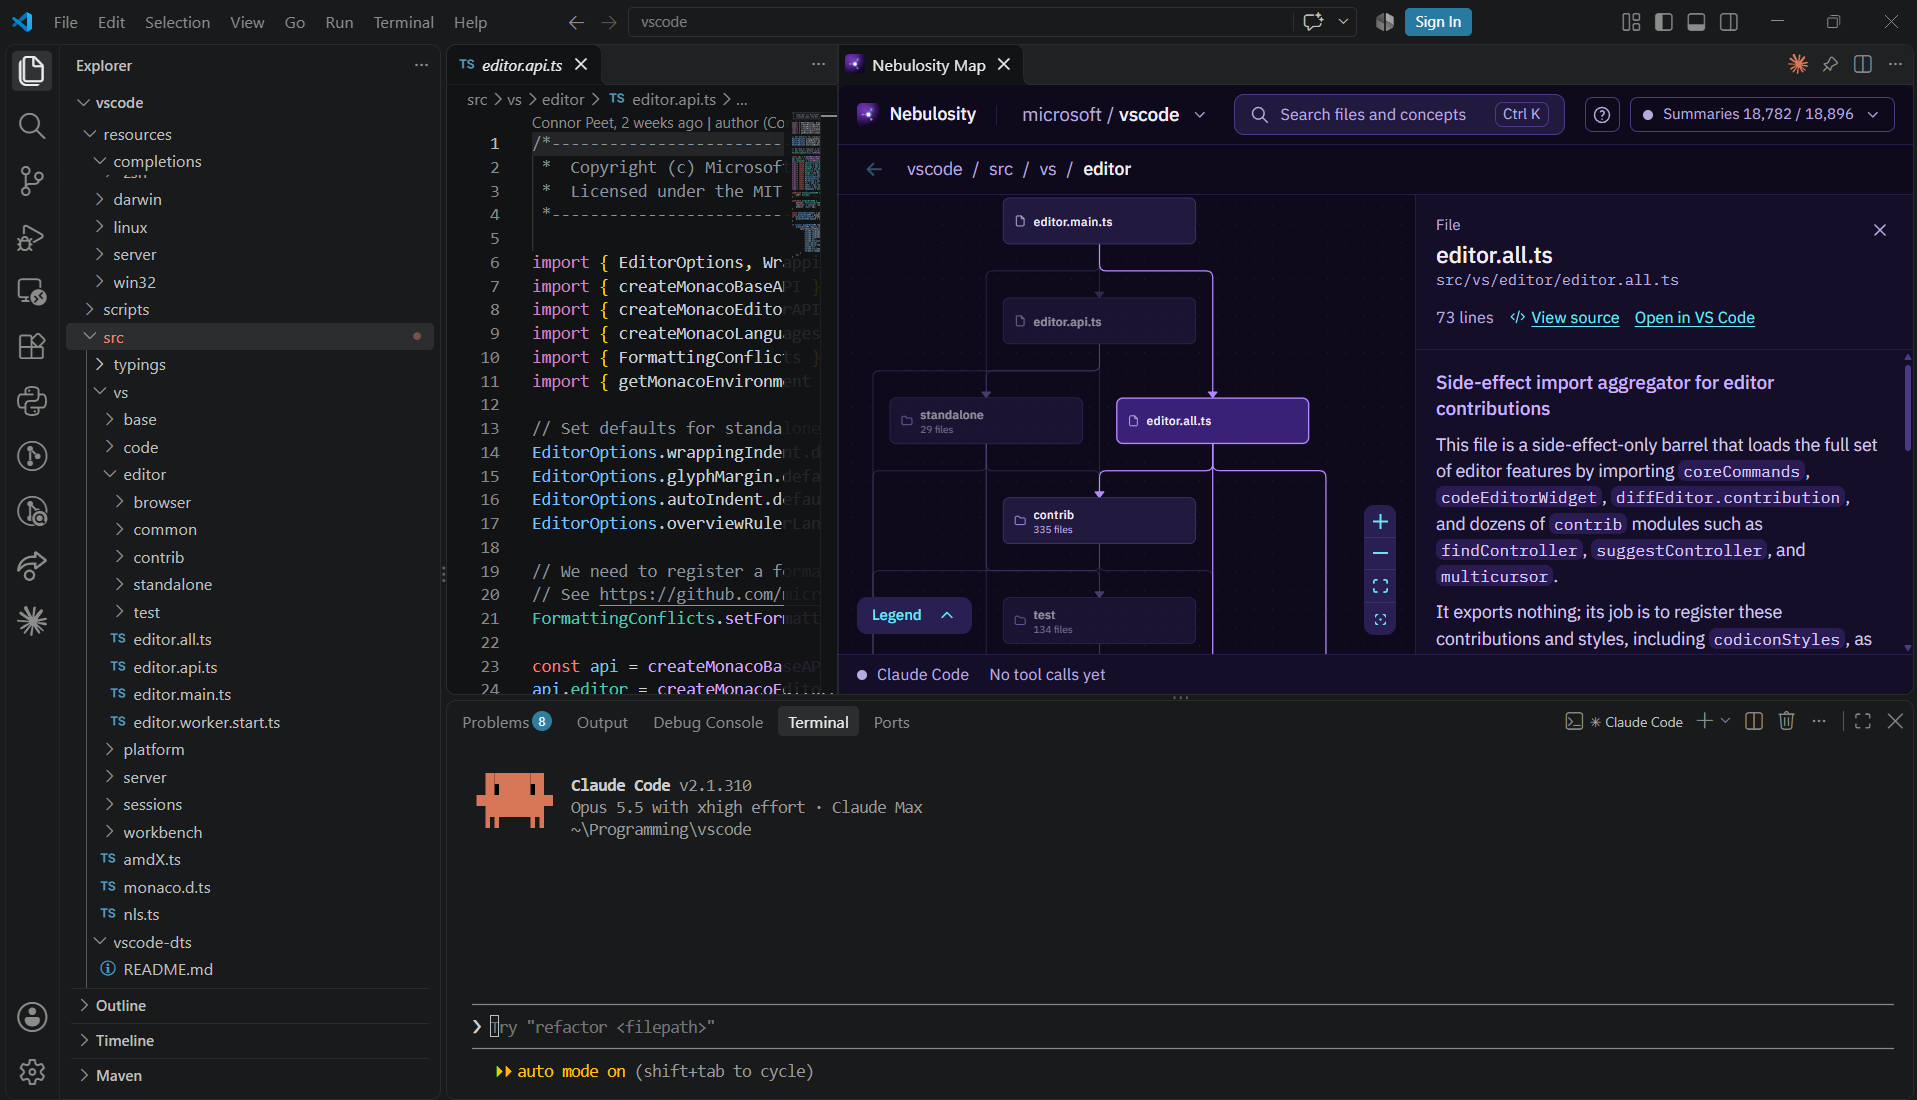
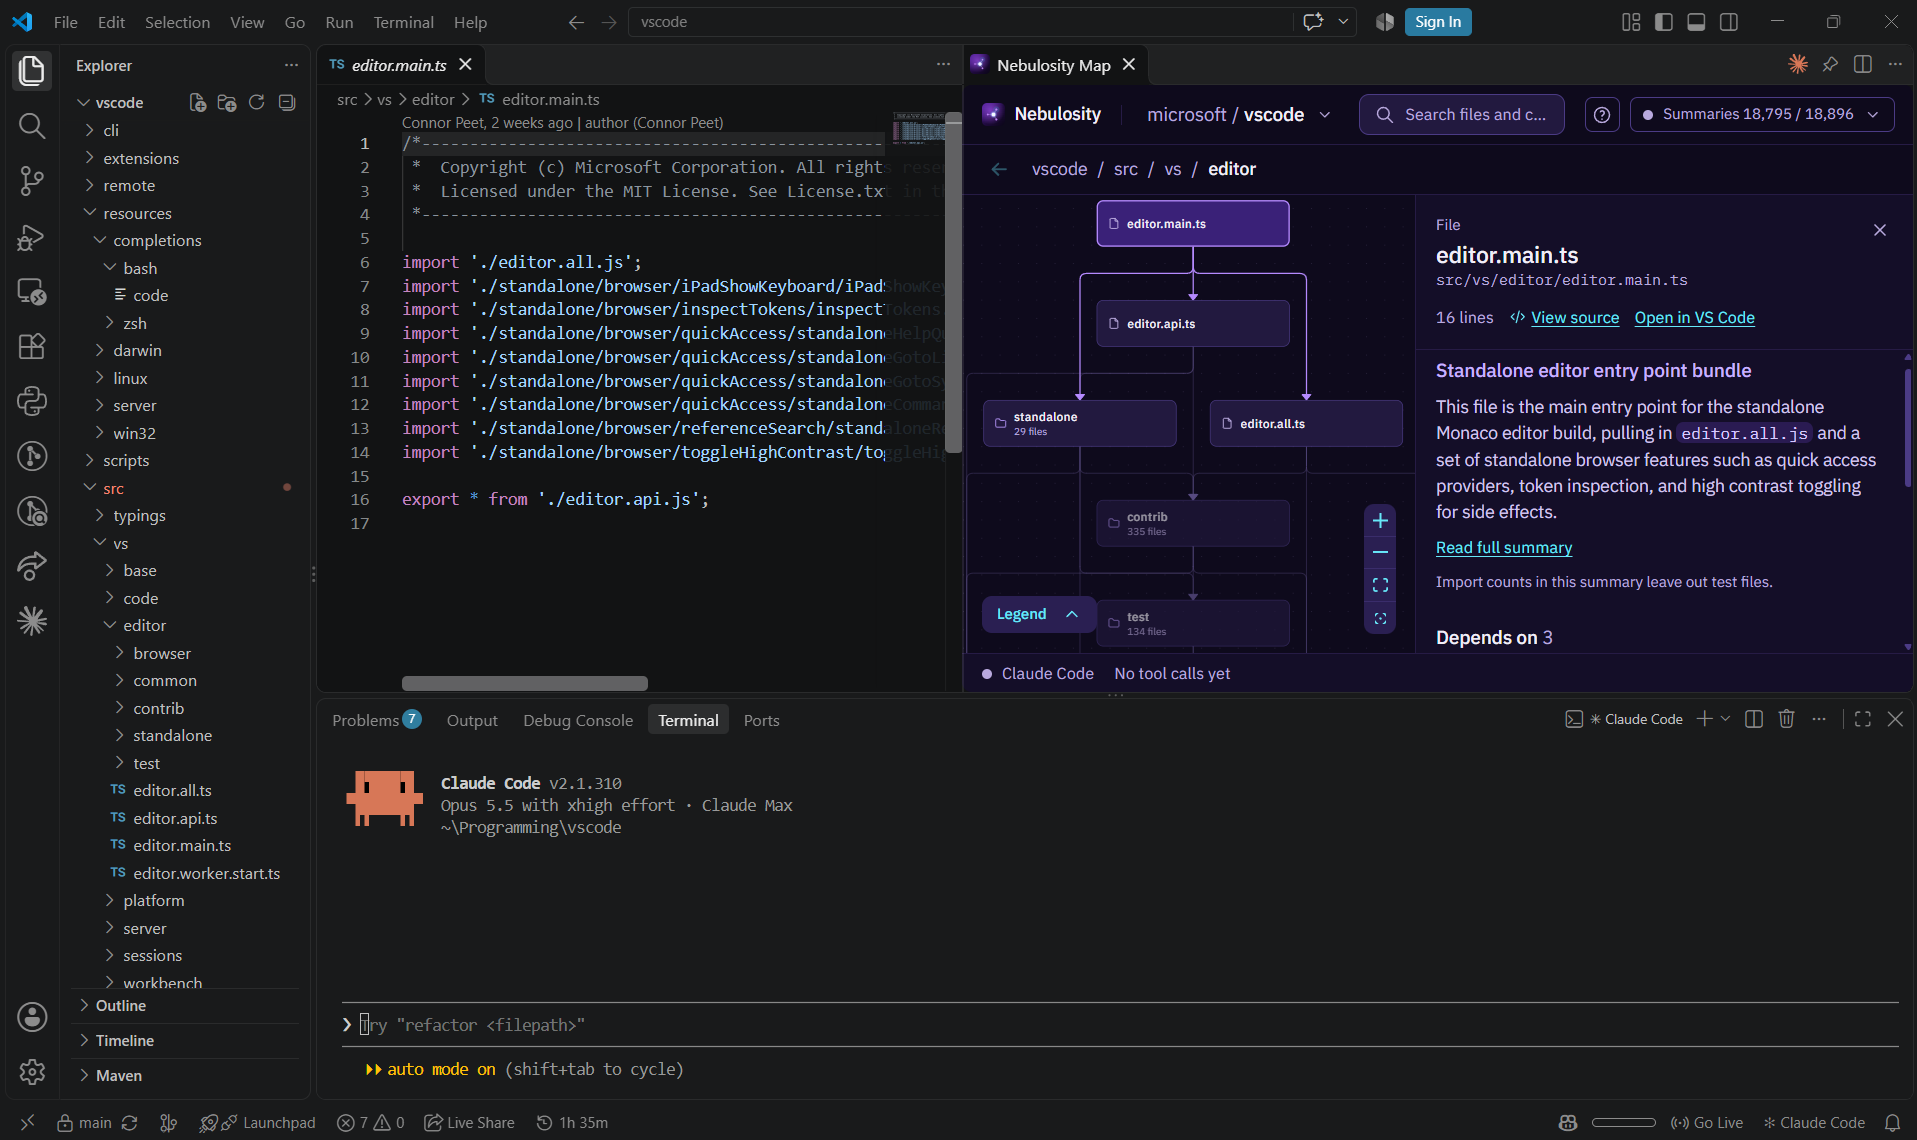
docs(readme): the owner's new screenshot of the VS Code extension: editor.main.ts open in the editor and selected on the Map, with lines to the three files it imports and its summary open

diff --git a/README.md b/README.md
@@ -63,7 +63,7 @@ And it's **free**. Everything above works without an API key, and Nebulosity its
 
 The extension shows the Map beside your code. It follows whatever file you have open, opens a file when you click it on the Map, and can light up the files that import the one you're looking at.
 
-![The Nebulosity extension in VS Code, with the Map beside the code and a file's summary open](docs/screenshots/vscode-extension.png)
+![The Nebulosity extension in VS Code: editor.main.ts is open in the editor and selected on the Map beside it, with lines to the files it imports and its summary open](docs/screenshots/vscode-extension.png)
 
 1. Install the `nebulosity` package and index your repo (see above).
 2. Install the **Nebulosity** extension. Until it's on the Marketplace and Open VSX, you can [build it from a checkout](docs/GUIDE.md#in-vs-code).
